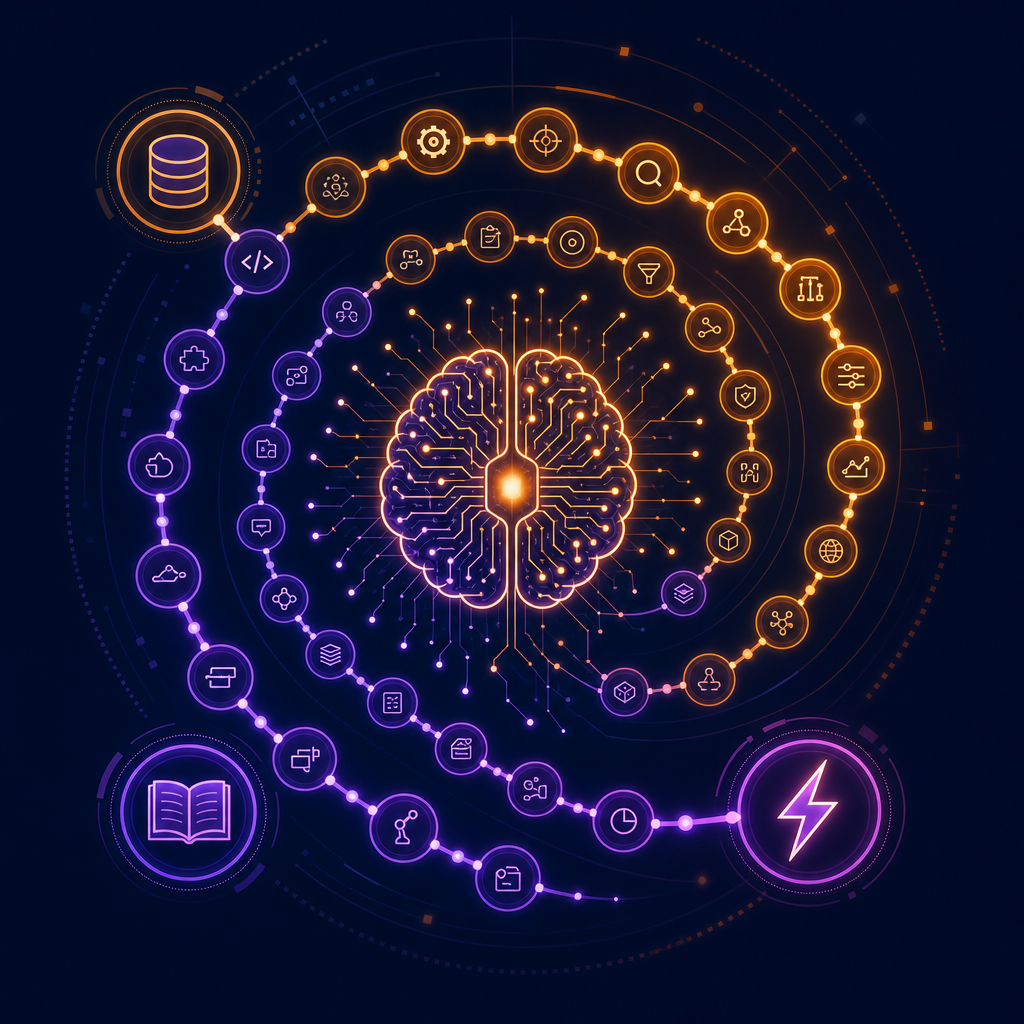
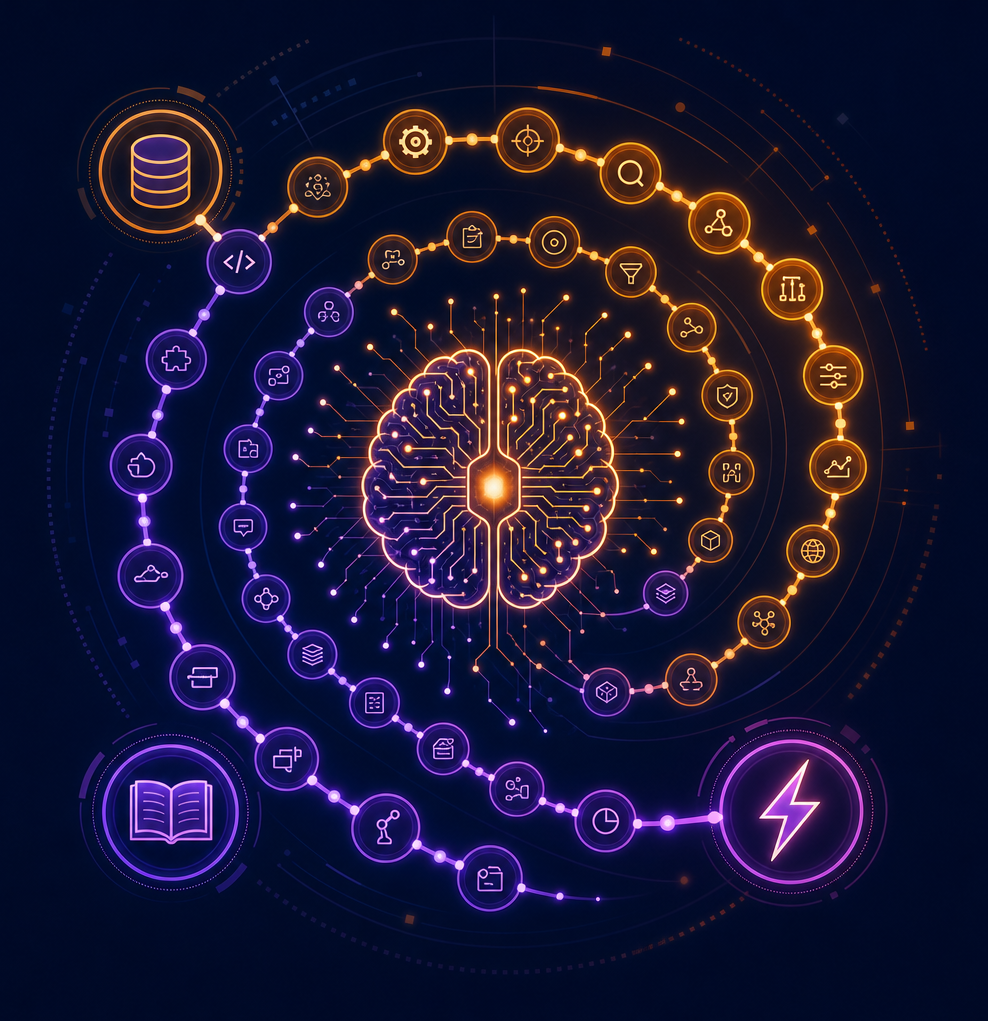
fix: crop dead space from 24 blog hero images so cards fill the frame
Auto-cropped AI-generated mockup heroes to their content bbox (+5% margin),
eliminating the large gray margins around small centered cards. Updated each
consuming page's Image width/height (and openGraph dims) to match the new
aspect ratios so Next.js renders them without distortion. Parameterized
BlogHero to accept optional width/height (defaults 1024x1024).

diff --git a/src/app/blog/jobtread-alternative/page.tsx b/src/app/blog/jobtread-alternative/page.tsx
@@ -20,7 +20,8 @@ export const metadata: Metadata = {
   description:
     "JobTread is built for general contractors. Cornerstone PM™ is built for home builders. Here's the honest difference &mdash; lot management, design center, sales pipeline, and AI that actually works with your data.",
   openGraph: {
-    images: [{ url: "https://www.cornerstonepm.ai/blog/production-builder-software.png", width: 1024, height: 1024, alt: "JobTread alternative home builder software with options pricing engine for production builders" }],
+    images: [{ url: "https://www.cornerstonepm.ai/blog/production-builder-software.png", width: 1960,
+          height: 1380, alt: "JobTread alternative home builder software with options pricing engine for production builders" }],
   }
 };
 
@@ -53,7 +54,10 @@ export default function JobtreadAlternativePost() {
           Back to Blog
         </Link>
 
-        <BlogHero src="/blog/production-builder-software.png" alt="JobTread alternative home builder software with options pricing engine for production builders" />
+        <BlogHero src="/blog/production-builder-software.png" alt="JobTread alternative home builder software with options pricing engine for production builders"
+        width={1960}
+        height={1380}
+      />
 
         <div className="mb-8">
           <span className="text-xs font-medium px-2.5 py-0.5 rounded-full border text-violet-400 bg-violet-500/10 border-violet-500/20 mb-4 inline-block">

diff --git a/src/app/blog/subcontractor-scheduling-software/page.tsx b/src/app/blog/subcontractor-scheduling-software/page.tsx
@@ -21,7 +21,8 @@ export const metadata: Metadata = {
   description:
     "The best subcontractors have options. If your scheduling is chaotic and your communication is reactive, they'll prioritize builders who make their lives easier. Here's how to be that builder.",
   openGraph: {
-    images: [{ url: "https://www.cornerstonepm.ai/blog/subcontractor-scheduling.png", width: 1024, height: 1024, alt: "Subcontractor scheduling software with Gantt visual timeline for production home builders" }],
+    images: [{ url: "https://www.cornerstonepm.ai/blog/subcontractor-scheduling.png", width: 1024,
+          height: 1000, alt: "Subcontractor scheduling software with Gantt visual timeline for production home builders" }],
   }
 };
 
@@ -40,7 +41,10 @@ export default function SubcontractorSchedulingSoftwarePost() {
           Back to Blog
         </Link>
 
-        <BlogHero src="/blog/subcontractor-scheduling.png" alt="Subcontractor scheduling software with Gantt visual timeline for production home builders" />
+        <BlogHero src="/blog/subcontractor-scheduling.png" alt="Subcontractor scheduling software with Gantt visual timeline for production home builders"
+        width={1024}
+        height={1000}
+      />
 
         <div className="mb-8">
           <span className="text-xs font-medium px-2.5 py-0.5 rounded-full border text-cyan-400 bg-cyan-500/10 border-cyan-500/20 mb-4 inline-block">

diff --git a/src/app/blog/job-cost-tracking-home-builders/page.tsx b/src/app/blog/job-cost-tracking-home-builders/page.tsx
@@ -21,7 +21,8 @@ export const metadata: Metadata = {
   description:
     "Most home builders don't find out they lost margin until the home closes. Here's how job cost tracking works, why it matters, and how to catch budget overruns before they happen.",
   openGraph: {
-    images: [{ url: "https://www.cornerstonepm.ai/blog/job-cost-tracking.png", width: 1024, height: 1024, alt: "Job cost tracking dashboard for residential home builders showing area cost breakdowns" }],
+    images: [{ url: "https://www.cornerstonepm.ai/blog/job-cost-tracking.png", width: 1960,
+          height: 1462, alt: "Job cost tracking dashboard for residential home builders showing area cost breakdowns" }],
   }
 };
 
@@ -40,7 +41,10 @@ export default function JobCostTrackingPost() {
           Back to Blog
         </Link>
 
-        <BlogHero src="/blog/job-cost-tracking.png" alt="Job cost tracking dashboard for residential home builders showing area cost breakdowns" />
+        <BlogHero src="/blog/job-cost-tracking.png" alt="Job cost tracking dashboard for residential home builders showing area cost breakdowns"
+        width={1960}
+        height={1462}
+      />
 
         <div className="mb-8">
           <span className="text-xs font-medium px-2.5 py-0.5 rounded-full border text-green-400 bg-green-500/10 border-green-500/20 mb-4 inline-block">

diff --git a/src/components/BlogHero.tsx b/src/components/BlogHero.tsx
@@ -5,13 +5,16 @@ type BlogHeroProps = {
   alt: string;
   /** Optional caption shown beneath the image */
   caption?: string;
+  /** Intrinsic image dimensions — must match the file's aspect ratio to avoid distortion */
+  width?: number;
+  height?: number;
 };
 
 /**
  * BlogHero — renders the hero image at the top of a blog post and emits
  * ImageObject JSON-LD scoped to the post for AISO + Google Image Search.
  */
-export function BlogHero({ src, alt, caption }: BlogHeroProps) {
+export function BlogHero({ src, alt, caption, width = 1024, height = 1024 }: BlogHeroProps) {
   const absoluteUrl = `https://www.cornerstonepm.ai${src}`;
   const schema = {
     "@context": "https://schema.org",
@@ -31,8 +34,8 @@ export function BlogHero({ src, alt, caption }: BlogHeroProps) {
         <Image
           src={src}
           alt={alt}
-          width={1024}
-          height={1024}
+          width={width}
+          height={height}
           priority
           sizes="(min-width: 768px) 768px, 100vw"
           className="w-full h-auto"

diff --git a/src/app/blog/foreman-ai-75-action-loop/page.tsx b/src/app/blog/foreman-ai-75-action-loop/page.tsx
@@ -30,8 +30,8 @@ export const metadata: Metadata = {
     images: [
       {
         url: "https://www.cornerstonepm.ai/blog/foreman-ai-75-action-loop.png",
-        width: 1024,
-        height: 1024,
+        width: 988,
+          height: 1021,
         alt: "How Foreman AI chains 75 actions in one prompt - technical deep dive",
       },
     ],
@@ -56,7 +56,9 @@ export default function Foreman75ActionLoopPost() {
         <BlogHero
           src="/blog/foreman-ai-75-action-loop.png"
           alt="How Foreman AI chains 75 actions in one prompt - technical architecture"
-        />
+        width={988}
+        height={1021}
+      />
 
         <div className="mb-8">
           <span className="text-xs font-medium px-2.5 py-0.5 rounded-full border text-cyan-400 bg-cyan-500/10 border-cyan-500/20 mb-4 inline-block">

diff --git a/src/app/blog/option-classes-scope-linked-design-options-home-builders/page.tsx b/src/app/blog/option-classes-scope-linked-design-options-home-builders/page.tsx
@@ -45,8 +45,8 @@ export const metadata: Metadata = {
     images: [
       {
         url: `https://www.cornerstonepm.ai${heroImage}`,
-        width: 1024,
-        height: 1024,
+        width: 1960,
+          height: 1834,
         alt: heroImageAlt,
       },
     ],
@@ -110,8 +110,8 @@ export default function OptionClassesScopeLinkingPage() {
             <Image
               src={heroImage}
               alt={heroImageAlt}
-              width={1024}
-              height={1024}
+              width={1960}
+          height={1834}
               priority
               className="rounded-2xl w-full h-auto"
             />

diff --git a/src/app/blog/production-builder-vs-custom-builder-software/page.tsx b/src/app/blog/production-builder-vs-custom-builder-software/page.tsx
@@ -32,8 +32,8 @@ export const metadata: Metadata = {
     images: [
       {
         url: `https://www.cornerstonepm.ai${heroImage}`,
-        width: 1024,
-        height: 1024,
+        width: 1960,
+          height: 1380,
         alt: heroImageAlt,
       },
     ],
@@ -71,8 +71,8 @@ export default function ProductionBuilderVsCustomBuilderSoftwarePage() {
         <Image
           src={heroImage}
           alt={heroImageAlt}
-          width={1024}
-          height={1024}
+          width={1960}
+          height={1380}
           priority
           className="rounded-2xl w-full h-auto mb-10"
         />

diff --git a/src/app/blog/clickup-monday-construction-vs-home-builder-software/page.tsx b/src/app/blog/clickup-monday-construction-vs-home-builder-software/page.tsx
@@ -35,8 +35,8 @@ export const metadata: Metadata = {
     images: [
       {
         url: `https://www.cornerstonepm.ai${heroImage}`,
-        width: 1024,
-        height: 1024,
+        width: 1960,
+          height: 1380,
         alt: heroImageAlt,
       },
     ],
@@ -144,8 +144,8 @@ export default function ClickupMondayHomeBuildersPage() {
         <Image
           src={heroImage}
           alt={heroImageAlt}
-          width={1024}
-          height={1024}
+          width={1960}
+          height={1380}
           priority
           className="rounded-2xl w-full h-auto mb-10"
         />

diff --git a/src/app/blog/enterprise-multi-division-home-builder-software/page.tsx b/src/app/blog/enterprise-multi-division-home-builder-software/page.tsx
@@ -34,8 +34,8 @@ export const metadata: Metadata = {
     images: [
       {
         url: `https://www.cornerstonepm.ai${heroImage}`,
-        width: 1024,
-        height: 1024,
+        width: 1960,
+          height: 1658,
         alt: heroImageAlt,
       },
     ],
@@ -139,8 +139,8 @@ export default function EnterpriseMultiDivisionPage() {
         <Image
           src={heroImage}
           alt={heroImageAlt}
-          width={1024}
-          height={1024}
+          width={1960}
+          height={1658}
           priority
           className="rounded-2xl w-full h-auto mb-10"
         />

diff --git a/src/app/blog/foreman-ai-profitability-budget-reports-vendor-scorecards/page.tsx b/src/app/blog/foreman-ai-profitability-budget-reports-vendor-scorecards/page.tsx
@@ -35,8 +35,8 @@ export const metadata: Metadata = {
     images: [
       {
         url: `https://www.cornerstonepm.ai${heroImage}`,
-        width: 1024,
-        height: 1024,
+        width: 766,
+          height: 444,
         alt: heroImageAlt,
       },
     ],
@@ -129,8 +129,8 @@ export default function ForemanProfitabilityReportsPage() {
         <Image
           src={heroImage}
           alt={heroImageAlt}
-          width={1024}
-          height={1024}
+          width={766}
+          height={444}
           priority
           className="rounded-2xl w-full h-auto mb-10"
         />

diff --git a/src/app/blog/buildxact-vs-cornerstone-selections-vs-design-center/page.tsx b/src/app/blog/buildxact-vs-cornerstone-selections-vs-design-center/page.tsx
@@ -35,8 +35,8 @@ export const metadata: Metadata = {
     images: [
       {
         url: `https://www.cornerstonepm.ai${heroImage}`,
-        width: 1024,
-        height: 1024,
+        width: 1960,
+          height: 1380,
         alt: heroImageAlt,
       },
     ],
@@ -141,8 +141,8 @@ export default function BuildxactVsCornerstonePage() {
         <Image
           src={heroImage}
           alt={heroImageAlt}
-          width={1024}
-          height={1024}
+          width={1960}
+          height={1380}
           priority
           className="rounded-2xl w-full h-auto mb-10"
         />

diff --git a/src/app/blog/true-cost-of-spreadsheet-budgets-home-builders/page.tsx b/src/app/blog/true-cost-of-spreadsheet-budgets-home-builders/page.tsx
@@ -32,8 +32,8 @@ export const metadata: Metadata = {
     images: [
       {
         url: `https://www.cornerstonepm.ai${heroImage}`,
-        width: 1024,
-        height: 1024,
+        width: 833,
+          height: 429,
         alt: heroImageAlt,
       },
     ],
@@ -110,8 +110,8 @@ export default function TrueCostSpreadsheetBudgetsPage() {
         <Image
           src={heroImage}
           alt={heroImageAlt}
-          width={1024}
-          height={1024}
+          width={833}
+          height={429}
           priority
           className="rounded-2xl w-full h-auto mb-10"
         />
